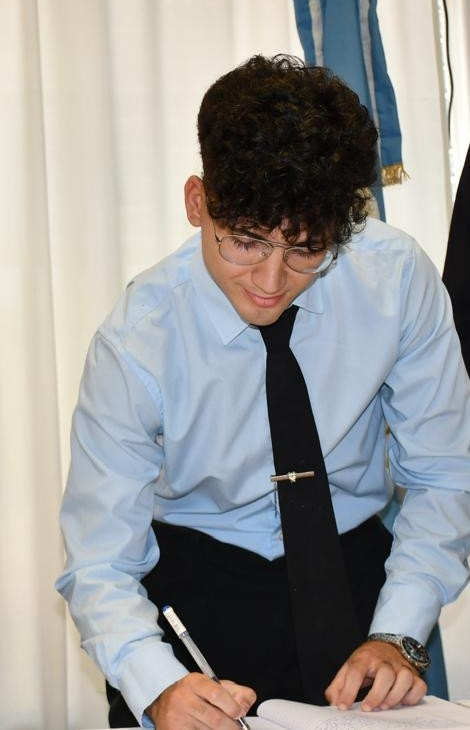
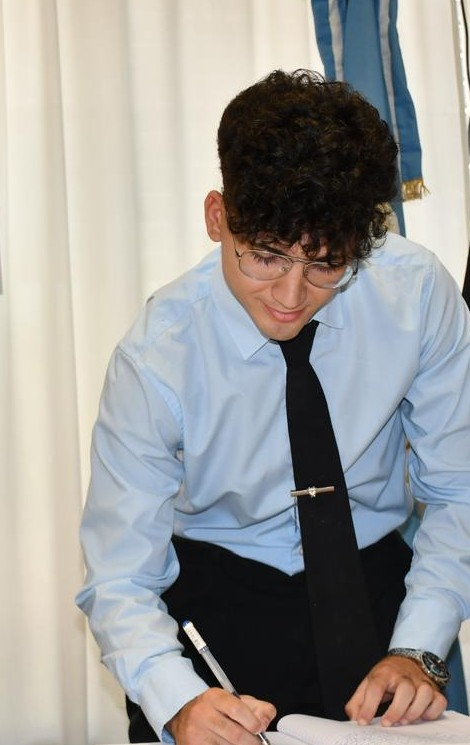
ajustes finos foto 2

diff --git a/index.html b/index.html
@@ -259,7 +259,6 @@
       <div class="contacto-grid">
         <div class="contacto-card reveal-left">
           <div class="c-row"><i class="c-icon fa-brands fa-whatsapp"></i><strong>WhatsApp</strong><a class="c-data" href="https://wa.me/5493854147181?text=Hola%20Mateo%2C%20quisiera%20realizar%20una%20consulta%20sobre%20mi%20situaci%C3%B3n%20y%20conocer%20c%C3%B3mo%20puedo%20proceder." target="_blank">385 414-7181</a></div>
-          <div class="c-row"><i class="c-icon fa-brands fa-whatsapp"></i><strong>WhatsApp (alternativo)</strong><a class="c-data" href="https://wa.me/5493855173463?text=Hola%2C%20quisiera%20realizar%20una%20consulta%20sobre%20mi%20situaci%C3%B3n%20y%20conocer%20c%C3%B3mo%20puedo%20proceder." target="_blank">385 517-3463</a></div>
           <div class="c-row"><i class="c-icon fa-solid fa-location-dot"></i><strong>Estudio</strong><span class="c-data">9 de Julio 422, La Banda, Santiago del Estero</span></div>
           <div class="c-row"><i class="c-icon fa-solid fa-clock"></i><strong>Atención</strong><span class="c-data">Con turno previo</span></div>
           <a href="https://wa.me/5493854147181?text=Hola%20Mateo%2C%20quisiera%20realizar%20una%20consulta%20sobre%20mi%20situaci%C3%B3n%20y%20conocer%20c%C3%B3mo%20puedo%20proceder." target="_blank" rel="noopener" class="btn btn-primary">Escribir ahora</a>
@@ -295,8 +294,7 @@
         <h4>Contacto</h4>
         <address>
           9 de Julio 422<br>La Banda, Santiago del Estero<br><br>
-          <a href="https://wa.me/5493854147181">385 414-7181</a><br>
-          <a href="https://wa.me/5493855173463">385 517-3463</a>
+          <a href="https://wa.me/5493854147181">385 414-7181</a>
         </address>
       </div>
     </div>
